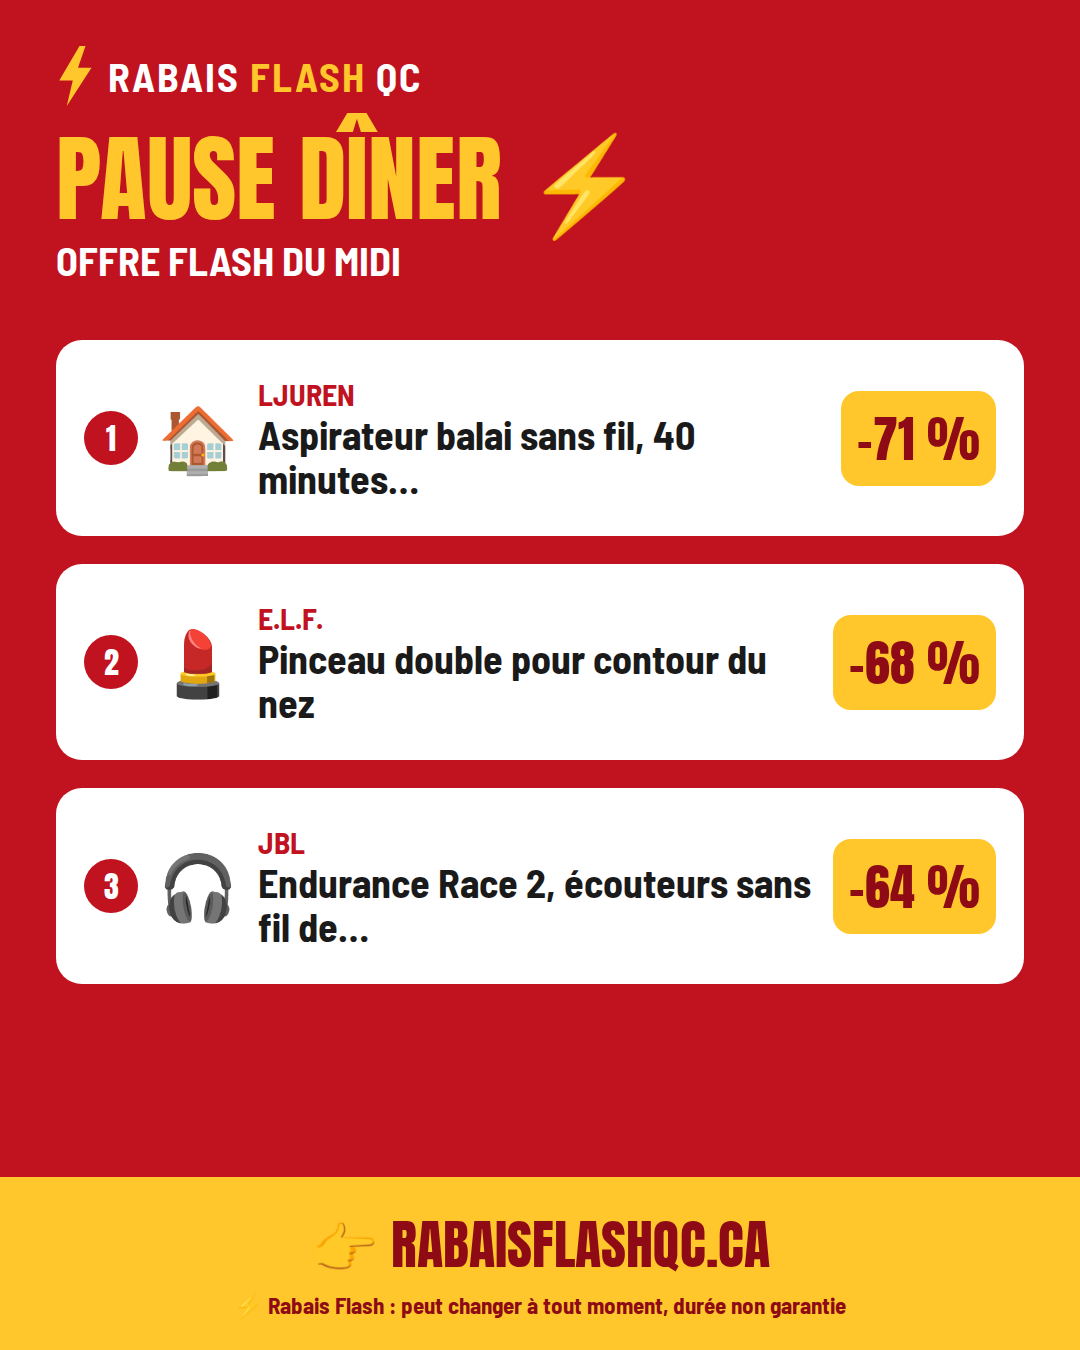
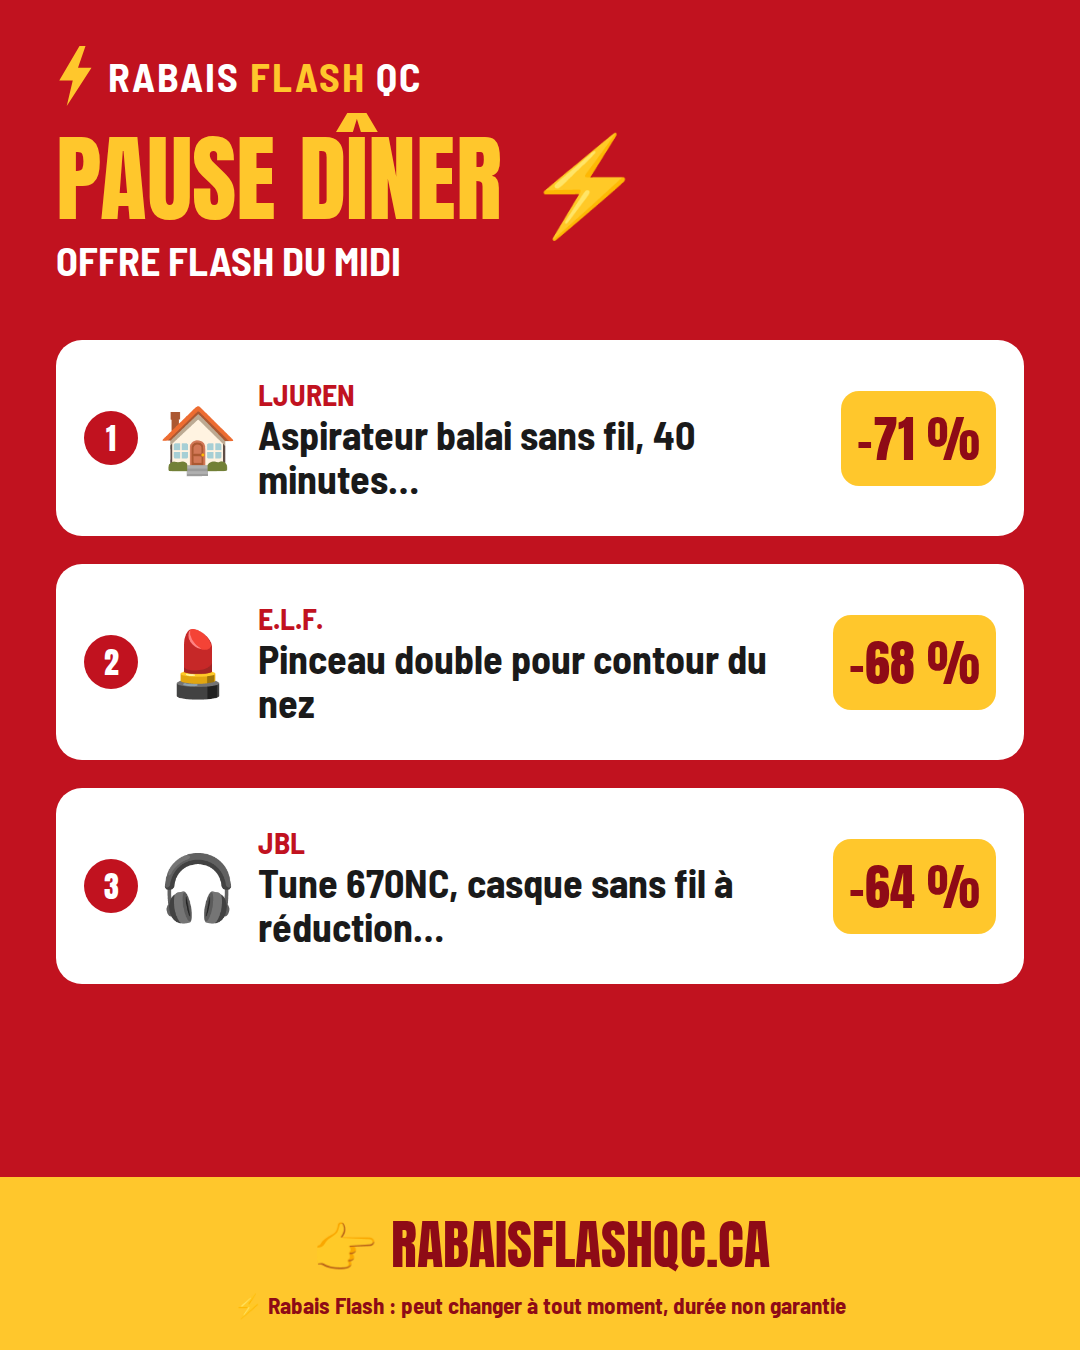
Mise à jour automatique des deals

Changed region(s): [[0.2444, 0.6222, 0.7639, 0.7156]]

diff --git a/docs/pack-du-jour/index.html b/docs/pack-du-jour/index.html
@@ -27,11 +27,11 @@ En tant que Partenaire Amazon, je réalise un bénéfice sur les achats rempliss
 #RabaisFlashQC #AubainesQuébec #DealsQC #Québec #Halloween</pre><button data-c="matin-t">📋 Copier le texte</button><h3>Premier commentaire à épingler</h3><pre id="matin-c">🔗 Tous les deals triés : https://rabaisflashqc.ca
 🎁 Guides cadeaux de Noël : https://rabaisflashqc.ca/idees-cadeaux/
 
-En tant que Partenaire Amazon, je réalise un bénéfice sur les achats remplissant les conditions requises.</pre><button data-c="matin-c">📋 Copier le commentaire</button></section><section class="c"><h2>🥪 Bonus du midi</h2><p class="m">Préparé le 2026-10-16 16:19 (heure du Québec)</p><img src="midi.png?v=202610161619" alt="Image du post"><p><a class="btn" href="midi.png?v=202610161619" download>⬇ Télécharger l'image</a></p><h3>Texte du post</h3><pre id="midi-t">⚡ Offre flash du midi! Ça passe vite, comme la pause :
+En tant que Partenaire Amazon, je réalise un bénéfice sur les achats remplissant les conditions requises.</pre><button data-c="matin-c">📋 Copier le commentaire</button></section><section class="c"><h2>🥪 Bonus du midi</h2><p class="m">Préparé le 2026-10-17 11:52 (heure du Québec)</p><img src="midi.png?v=202610171152" alt="Image du post"><p><a class="btn" href="midi.png?v=202610171152" download>⬇ Télécharger l'image</a></p><h3>Texte du post</h3><pre id="midi-t">😋 Pendant que ta soupe refroidit, regarde ça :
 
 🏠 Ljuren : Aspirateur balai sans fil, 40 minutes… (-71 %)
 💄 e.l.f. : Pinceau double pour contour du nez (-68 %)
-🎧 JBL : Endurance Race 2, écouteurs sans fil de sport… (-64 %)
+🎧 JBL : Tune 670NC, casque sans fil à réduction de… (-64 %)
 
 👉 Tous les deals triés, sans chercher : https://rabaisflashqc.ca
 
